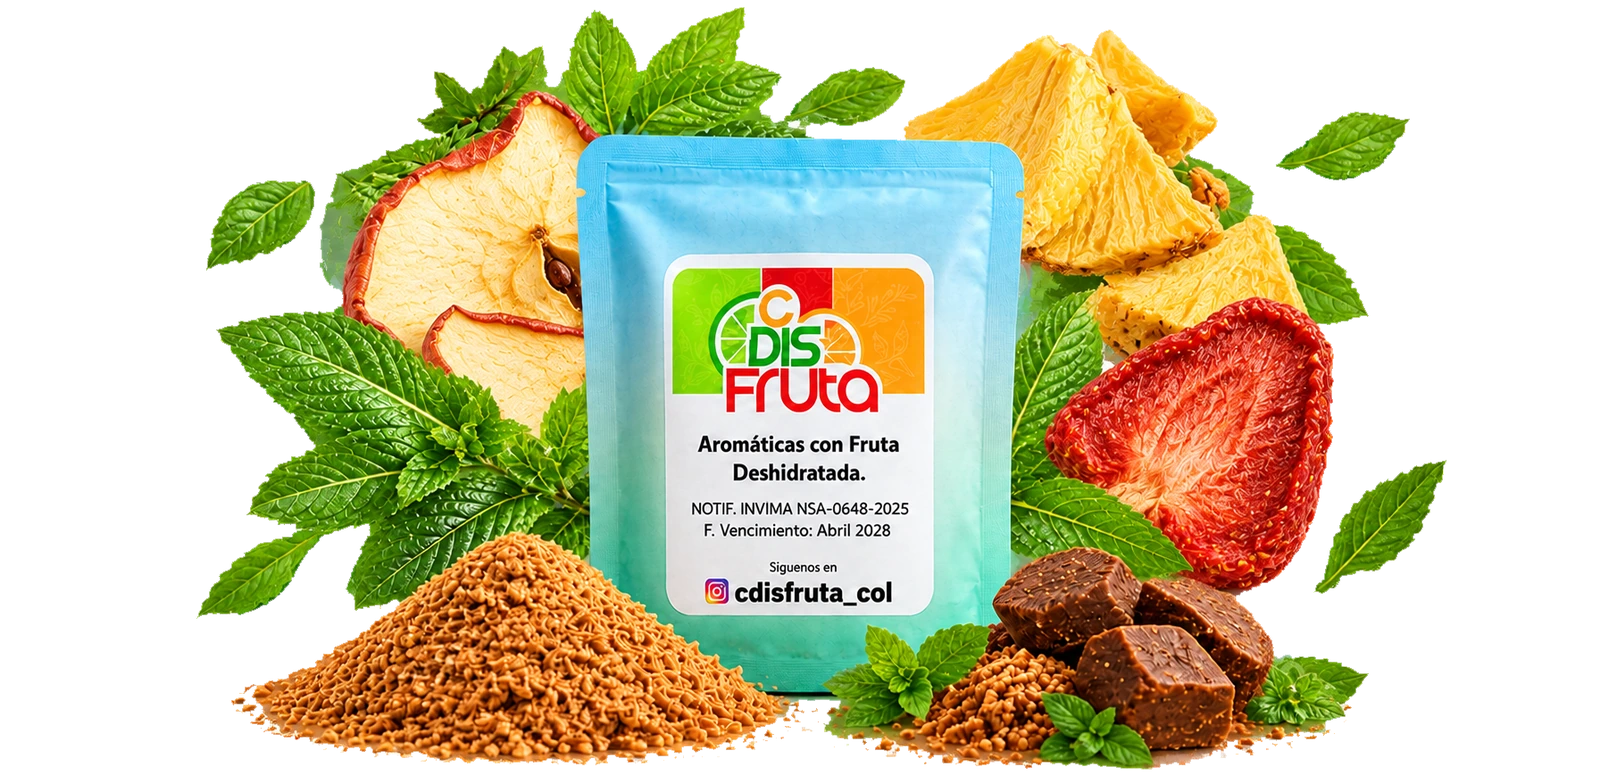
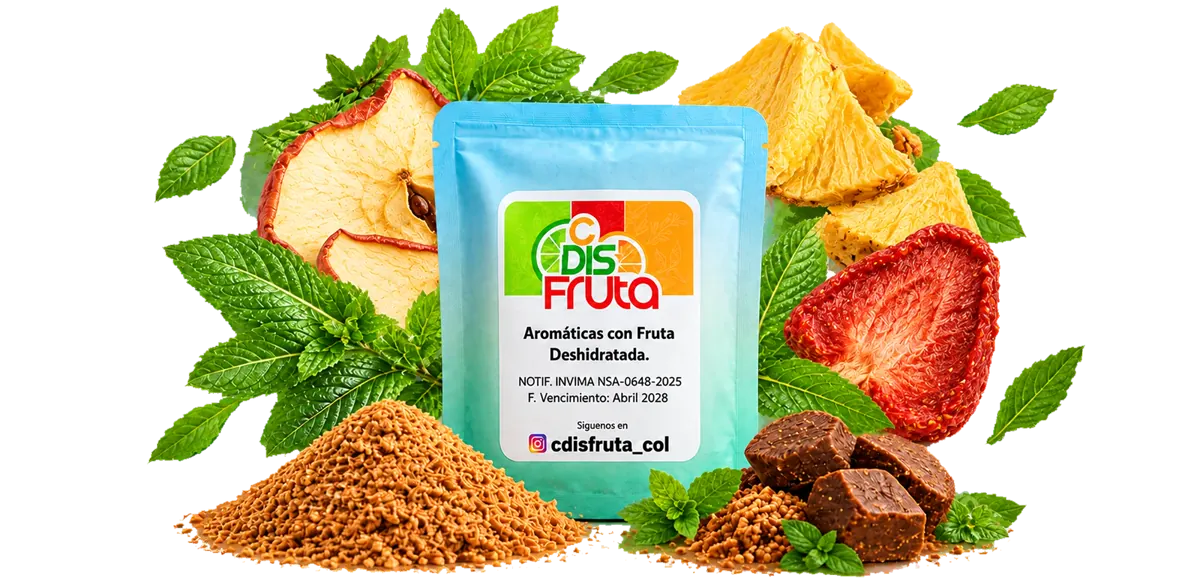
fix: ajustes visuales para mejorar el rendimiento de la aplicacion

Changed region(s): [[0.4317, 0.7347, 0.4625, 0.7653]]

diff --git a/src/pages/public/landing/HeroCarousel3D.jsx b/src/pages/public/landing/HeroCarousel3D.jsx
@@ -90,7 +90,9 @@ export default function HeroCarousel3D({ banners = [], loading = false }) {
   const spacing = screenWidth < 640 ? Math.min(126, screenWidth * 0.35) : screenWidth < 1024 ? 155 : Math.min(190, screenWidth / 6);
   const cardWidth = screenWidth < 640 ? 'min(66vw, 232px)' : 'clamp(210px, 24vw, 292px)';
   const transitionTime = reducedMotion ? '0ms' : '500ms';
-  const getImage = (banner, width = 600) =>
+  const centerWidth = screenWidth < 640 ? 480 : screenWidth < 1024 ? 640 : 720;
+  const sideWidth = screenWidth < 640 ? 280 : screenWidth < 1024 ? 360 : 420;
+  const getImage = (banner, width = centerWidth) =>
     cloudinaryUrl(banner.img || BRAND_PLACEHOLDER, { width }) || BRAND_PLACEHOLDER;
 
   return <section
@@ -144,7 +146,7 @@ export default function HeroCarousel3D({ banners = [], loading = false }) {
           }} onClick={() => { if (!isCenter) setActiveIndex(index); }}>
             <div className={tw('relative aspect-[3/4] overflow-hidden rounded-[28px] border border-white/70 bg-[#f2dfd1] shadow-[0_18px_48px_rgba(84,48,25,.2)] transition duration-500 ease-out group-hover:-translate-y-1 group-hover:shadow-[0_28px_60px_rgba(195,67,31,.3)] motion-reduce:transition-none', isCenter && 'shadow-[0_24px_58px_rgba(195,67,31,.28)]')}>
               <button type="button" tabIndex={isCenter ? 0 : -1} onClick={() => setActiveIndex(index)} aria-label={`Mostrar banner: ${banner.titulo}`} className={tw('absolute inset-0 h-full w-full cursor-pointer focus-visible:z-20 focus-visible:outline-4 focus-visible:outline-[#E8603C]')}>
-                <img src={getImage(banner, isCenter ? 720 : 420)} alt={banner.titulo || 'Banner CDISFRUTA'} width="600" height="800" decoding="async" loading={isCenter && index === 0 ? 'eager' : 'lazy'} fetchPriority={isCenter && index === 0 ? 'high' : 'low'} onError={(event) => { event.currentTarget.onerror = null; event.currentTarget.src = BRAND_PLACEHOLDER; }} draggable="false" className={tw('h-full w-full object-cover transition-transform duration-700 ease-out group-hover:scale-105 motion-reduce:transition-none')} />
+                <img src={getImage(banner, isCenter ? centerWidth : sideWidth)} alt={banner.titulo || 'Banner CDISFRUTA'} width="600" height="800" decoding="async" loading={isCenter ? 'eager' : 'lazy'} fetchPriority={isCenter ? 'high' : 'low'} onError={(event) => { event.currentTarget.onerror = null; event.currentTarget.src = BRAND_PLACEHOLDER; }} draggable="false" className={tw('h-full w-full object-cover transition-transform duration-700 ease-out group-hover:scale-105 motion-reduce:transition-none')} />
               </button>
               <div className={tw('pointer-events-none absolute inset-x-0 bottom-0 bg-gradient-to-t from-[#1d120b]/90 via-[#1d120b]/35 to-transparent px-4 pb-2 pt-16 text-white sm:px-5 sm:pb-3 sm:pt-16')}>
                 {isCenter && <>
@@ -166,7 +168,7 @@ export default function HeroCarousel3D({ banners = [], loading = false }) {
     {showDetails && createPortal(<div className={tw('fixed inset-0 z-[2500] flex items-end justify-center bg-slate-950/55 p-0 backdrop-blur-sm sm:items-center sm:p-4')} onMouseDown={(event) => { if (event.target === event.currentTarget) setShowDetails(false); }}>
       <section role="dialog" aria-modal="true" aria-labelledby="hero-banner-details-title" className={tw('relative w-full max-w-xl overflow-hidden rounded-t-3xl bg-white shadow-2xl sm:rounded-3xl')}>
         <button type="button" aria-label="Cerrar información" onClick={() => setShowDetails(false)} className={tw('absolute right-3 top-3 z-10 grid size-10 place-items-center rounded-full bg-white/90 text-slate-700 shadow-sm hover:text-[#E8603C] focus-visible:outline-2 focus-visible:outline-[#E8603C]')}><FaTimes /></button>
-        <img src={getImage(current, 960)} alt={current.titulo || 'CDISFRUTA'} width="960" height="256" loading="lazy" decoding="async" onError={(event) => { event.currentTarget.onerror = null; event.currentTarget.src = BRAND_PLACEHOLDER; }} className={tw('h-52 w-full object-cover sm:h-64')} />
+        <img src={getImage(current, screenWidth < 640 ? 640 : 960)} alt={current.titulo || 'CDISFRUTA'} width="960" height="256" loading="lazy" decoding="async" onError={(event) => { event.currentTarget.onerror = null; event.currentTarget.src = BRAND_PLACEHOLDER; }} className={tw('h-52 w-full object-cover sm:h-64')} />
         <div className={tw('space-y-3 p-5 sm:p-7')}><p className={tw('text-xs font-bold uppercase tracking-[.14em] text-[#E8603C]')}>{current.etiqueta || current.eyebrow}</p><h2 id="hero-banner-details-title" className={tw('text-2xl font-extrabold tracking-[-.02em] text-[#2D1B0A]')}>{current.titulo}</h2><p className={tw('max-h-48 overflow-y-auto whitespace-pre-line text-sm leading-6 text-[#5C4033]')} style={{ fontFamily: 'var(--font-mono)' }}>{current.detalle || current.desc}</p><p className={tw('inline-flex rounded-full bg-orange-50 px-3 py-1.5 text-sm font-semibold text-[#5C4033]')}>{current.tag || current.etiqueta}</p><div><button type="button" onClick={() => { setShowDetails(false); navigate('/tienda'); }} className={tw('min-h-11 rounded-full bg-[#E8603C] px-5 text-sm font-bold text-white transition hover:bg-[#C4431F] focus-visible:outline-2 focus-visible:outline-offset-2 focus-visible:outline-[#E8603C]')}>Ver en la tienda</button></div></div>
       </section>
     </div>, document.body)}

diff --git a/src/pages/public/landing/MainPage.jsx b/src/pages/public/landing/MainPage.jsx
@@ -1,13 +1,15 @@
+import { lazy, Suspense } from 'react';
 import { tw } from '../../../utils/tw.js';
-import Videos from './Videos';
 import HeroCarousel from './Carrusel';
 import Header from './Header';
-import HistorySection from './HistorySection';
-import MissionVision from './MissionVision';
-import KnowSection from './KnowSection';
 import { IoLocationOutline } from "react-icons/io5";
 import { BsTelephone } from "react-icons/bs";
 import { MdOutlineMail } from "react-icons/md";
+
+const KnowSection = lazy(() => import('./KnowSection'));
+const HistorySection = lazy(() => import('./HistorySection'));
+const MissionVision = lazy(() => import('./MissionVision'));
+const Videos = lazy(() => import('./Videos'));
 
 // Contenido editorial de Historia. Esta sección es estática y no está conectada al panel administrativo.
 // Los textos y distintivos visuales de esta configuración se pueden editar aquí sin tocar el panel.
@@ -36,6 +38,10 @@ const historyContent = {
   closingNote: 'Más que un snack... es naturaleza en cada bocado',
 };
 
+function SectionFallback({ minHeight = '20rem' }) {
+  return <div className={tw('w-full bg-[#FAEFE6]')} style={{ minHeight }} aria-hidden="true" />;
+}
+
 function MainPage() {
   return (
     <div className={tw("main-page-wrapper", "theme-v2")}>
@@ -49,15 +55,23 @@ function MainPage() {
       <main id="contenido-principal">
       <HeroCarousel />
 
-      <KnowSection />
+      <Suspense fallback={<SectionFallback minHeight="28rem" />}>
+        <KnowSection />
+      </Suspense>
 
-      <HistorySection content={historyContent} />
+      <Suspense fallback={<SectionFallback minHeight="32rem" />}>
+        <HistorySection content={historyContent} />
+      </Suspense>
  
-      <MissionVision />
+      <Suspense fallback={<SectionFallback minHeight="36rem" />}>
+        <MissionVision />
+      </Suspense>
  
       {/* ── GALERÍA / VIDEOS ── */}
       <section className={tw("media-section", "scroll-mt-24")} id="videos">
-        <Videos />
+        <Suspense fallback={<SectionFallback minHeight="24rem" />}>
+          <Videos />
+        </Suspense>
       </section>
       </main>
  

diff --git a/index.html b/index.html
@@ -17,15 +17,14 @@
     <meta name="twitter:title" content="CDISFRUTA | Snacks de Ubaté" />
     <meta name="twitter:description" content="Snacks de fruta deshidratada y aromáticas naturales de Ubaté, Cundinamarca." />
     <link rel="canonical" href="https://cdisfruta.vercel.app/" />
-    <link rel="preload" as="image" type="image/webp" href="/img/cdisfruta_01.webp" fetchpriority="high" />
     <meta http-equiv="Cross-Origin-Opener-Policy" content="same-origin-allow-popups" />
     <meta name="referrer" content="strict-origin-when-cross-origin" />
     <title>CDISFRUTA | Snacks de fruta deshidratada de Ubaté</title>
     <link rel="preconnect" href="https://fonts.googleapis.com" />
     <link rel="preconnect" href="https://fonts.gstatic.com" crossorigin />
-    <!-- Solo 3 familias (antes 6): menos peso en móvil sin cambiar la identidad visual. -->
-    <link rel="stylesheet" href="https://fonts.googleapis.com/css2?family=Kaushan+Script&family=Manrope:wght@600;700;800&family=Plus+Jakarta+Sans:wght@400;600;700&family=Space+Mono:wght@400;700&display=swap" media="print" onload="this.media='all'" />
-    <noscript><link rel="stylesheet" href="https://fonts.googleapis.com/css2?family=Kaushan+Script&family=Manrope:wght@600;700;800&family=Plus+Jakarta+Sans:wght@400;600;700&family=Space+Mono:wght@400;700&display=swap" /></noscript>
+    <!-- Manrope + Jakarta (+ Kaushan si se usa en títulos); mono del sistema vía CSS. -->
+    <link rel="stylesheet" href="https://fonts.googleapis.com/css2?family=Kaushan+Script&family=Manrope:wght@600;700;800&family=Plus+Jakarta+Sans:wght@400;600;700&display=swap" media="print" onload="this.media='all'" />
+    <noscript><link rel="stylesheet" href="https://fonts.googleapis.com/css2?family=Kaushan+Script&family=Manrope:wght@600;700;800&family=Plus+Jakarta+Sans:wght@400;600;700&display=swap" /></noscript>
   </head>
   <body class="font-jakarta antialiased global-body">
     <div id="root"></div>

diff --git a/src/pages/auth/LoginGoogle.jsx b/src/pages/auth/LoginGoogle.jsx
@@ -1,12 +1,14 @@
 import { tw } from '../../utils/tw.js';
-import { GoogleLogin } from '@react-oauth/google';
+import { GoogleLogin, GoogleOAuthProvider } from '@react-oauth/google';
 import { useEffect, useRef, useState } from 'react';
 import { useNavigate } from 'react-router-dom';
 import { loginConGoogle } from '../../services/api/authService';
 import { useAuth } from '../../hooks/useAuth';
 import { homePathForRole } from '../../utils/roleHome.js';
 
-export default function LoginGoogle({ cerrarModal }) {
+const GOOGLE_CLIENT_ID = '291876279012-gsnvnoi8b3v6ja2odjl5mdvvd6rjd3d3.apps.googleusercontent.com';
+
+function LoginGoogleButton({ cerrarModal }) {
   const [respuestaServer, setRespuestaServer] = useState("");
   const [loading, setLoading] = useState(false);
   const [buttonWidth, setButtonWidth] = useState(320);
@@ -78,5 +80,14 @@ export default function LoginGoogle({ cerrarModal }) {
         </p>
       )}
     </div>
+  );
+}
+
+/** Provider solo aquí: evita cargar gsi/client en la landing y el resto del sitio. */
+export default function LoginGoogle({ cerrarModal }) {
+  return (
+    <GoogleOAuthProvider clientId={GOOGLE_CLIENT_ID} locale="es">
+      <LoginGoogleButton cerrarModal={cerrarModal} />
+    </GoogleOAuthProvider>
   );
 }

diff --git a/src/pages/public/landing/Carrusel.jsx b/src/pages/public/landing/Carrusel.jsx
@@ -1,5 +1,6 @@
 import { useCallback, useEffect, useState } from 'react';
 import { URL_SERVER } from '../../../services/api/client.js';
+import { cloudinaryUrl } from '../../../utils/cloudinaryUrl.js';
 import HeroCarousel3D from './HeroCarousel3D';
 
 const isBannerActive = (banner) => banner.activo !== false && banner.active !== false && banner.estado !== 'inactivo';
@@ -52,6 +53,25 @@ export default function Carrusel() {
       window.removeEventListener('focus', refresh);
     };
   }, [loadBanners]);
+
+  // Precarga el LCP real (Cloudinary o local) en el tamaño móvil del hero.
+  useEffect(() => {
+    const first = banners[0]?.img;
+    if (!first) return undefined;
+    const href = cloudinaryUrl(first, { width: 480 }) || first;
+    let link = document.querySelector('link[data-lcp-hero]');
+    if (!link) {
+      link = document.createElement('link');
+      link.rel = 'preload';
+      link.as = 'image';
+      link.setAttribute('data-lcp-hero', '1');
+      document.head.appendChild(link);
+    }
+    if (link.href !== new URL(href, window.location.origin).href) {
+      link.href = href;
+    }
+    return undefined;
+  }, [banners]);
 
   return <HeroCarousel3D
     banners={banners}

diff --git a/src/pages/public/landing/KnowSection.jsx b/src/pages/public/landing/KnowSection.jsx
@@ -271,8 +271,8 @@ export default function KnowSection() {
     <>
     <section ref={sectionRef} id="conoce" className={`know-section${visible ? ' is-visible' : ''}`} aria-labelledby="know-title">
       <div className="know-stage__foliage" aria-hidden="true">
-        <img className="know-stage__foliage-image know-stage__foliage-image--back" src="/img/conoce-marco-hojas.webp" alt="" width="1792" height="878" loading="lazy" decoding="async" />
-        <img className="know-stage__foliage-image know-stage__foliage-image--front" src="/img/conoce-marco-hojas.webp" alt="" width="1792" height="878" loading="lazy" decoding="async" />
+        <img className="know-stage__foliage-image know-stage__foliage-image--back" src="/img/conoce-marco-hojas.webp" alt="" width="900" height="441" loading="lazy" decoding="async" />
+        <img className="know-stage__foliage-image know-stage__foliage-image--front" src="/img/conoce-marco-hojas.webp" alt="" width="900" height="441" loading="lazy" decoding="async" />
       </div>
       <div className="know-section__inner">
         <header className="know-section__heading">

diff --git a/src/pages/public/landing/MissionVision.jsx b/src/pages/public/landing/MissionVision.jsx
@@ -95,12 +95,12 @@ export default function MissionVision() {
               style={{ '--active-place-blob': `url(#mission-vision-${ACTIVE_BLOB})` }}
               src="/img/ubate-iglesia.webp"
               alt="Iglesia y paisaje de Ubaté, Cundinamarca"
-              width="1024"
-              height="768"
+              width="800"
+              height="600"
               loading="lazy"
               onError={(event) => { event.currentTarget.style.visibility = 'hidden'; }}
             />
-            <img className="mission-vision__fruit-art" src="/img/frutas-decorativas.webp" alt="" aria-hidden="true" width="900" height="900" decoding="async" loading="lazy" onError={(event) => { event.currentTarget.style.display = 'none'; }} />
+            <img className="mission-vision__fruit-art" src="/img/frutas-decorativas.webp" alt="" aria-hidden="true" width="700" height="563" decoding="async" loading="lazy" onError={(event) => { event.currentTarget.style.display = 'none'; }} />
             <button
               className="mission-vision__fact-trigger"
               type="button"

diff --git a/src/main.jsx b/src/main.jsx
@@ -1,18 +1,13 @@
 import { StrictMode } from 'react'
 import { createRoot } from 'react-dom/client'
 import './styles/index.css'
-import { tailwindClassMap } from './utils/tailwindClassMap.js';
+import { tailwindClassMap } from './utils/tailwindClassMap.js'
 import App from './routes/AppRouter.jsx'
-// 1. Importar el Provider
-import { GoogleOAuthProvider } from '@react-oauth/google';
 
 document.body.classList.add(...tailwindClassMap['global-body']);
 
 createRoot(document.getElementById('root')).render(
   <StrictMode>
-    {/* 2. Envolver la App con el Client ID */}
-    <GoogleOAuthProvider clientId="291876279012-gsnvnoi8b3v6ja2odjl5mdvvd6rjd3d3.apps.googleusercontent.com" locale="es">
-      <App />
-    </GoogleOAuthProvider>
+    <App />
   </StrictMode>,
 )

diff --git a/vite.config.js b/vite.config.js
@@ -15,5 +15,18 @@ export default defineConfig({
     target: 'es2020',
     cssCodeSplit: true,
     sourcemap: false,
+    rollupOptions: {
+      output: {
+        manualChunks(id) {
+          if (!id.includes('node_modules')) return undefined;
+          if (id.includes('@react-oauth')) return 'oauth-google';
+          if (id.includes('react-dom') || id.includes('node_modules/react/') || id.includes('node_modules\\react\\')) {
+            return 'react-vendor';
+          }
+          if (id.includes('axios')) return 'axios';
+          return undefined;
+        },
+      },
+    },
   },
 })
